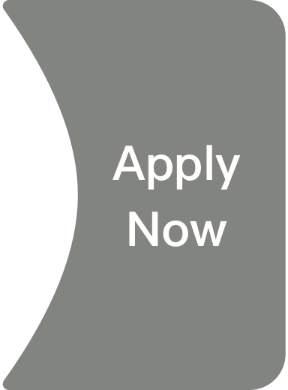
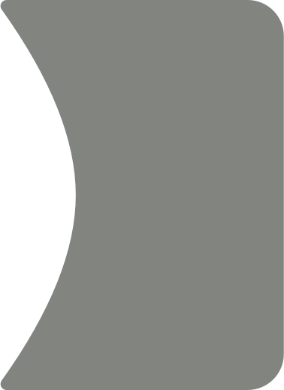
feat(home): 推荐卡按钮文案改由代码绘制并取后端 curitiba
- 按钮切图只保留弧形卡身，文案用 Text 叠加绘制，置灰态文案为白色
- HomeProductListCard 新增 buttonText，解析后端 curitiba，为空回落 Apply Now
- 移除已弃用的 apply_now_normal 切图与其常量，normal 态复用高亮切图

diff --git a/lib/pages/home_page.dart b/lib/pages/home_page.dart
@@ -1176,10 +1176,34 @@ class _RecommendationCard extends ConsumerWidget {
   /// 按钮切图尺寸（设计稿 `text-wrapper_10`：96x130）。
   static const _buttonWidth = 96.0;
 
+  /// 按钮文案（切图只保留弧形卡身，文案改由代码绘制）。
+  /// 优先取后端 `curitiba`，为空时回落到设计稿文案。
+  static const _buttonLabelFallback = 'Apply Now';
+
+  String get _buttonLabel {
+    return card.buttonText.isEmpty ? _buttonLabelFallback : card.buttonText;
+  }
+
+  /// 按钮文案色：置灰态用白色，其余用深色（设计稿）。
+  Color get _buttonLabelColor =>
+      card.buttonStyle == HomeProductCardButtonStyle.grayed
+      ? AppColors.white
+      : AppColors.cardValue;
+
+  /// 文案字号 / 行高（设计稿加粗、两行）。
+  static const _buttonLabelFontSize = 16.0;
+  static const _buttonLabelLineHeight = 1.4;
+
+  /// 文案强制折成两行的最大宽度（设计稿「Apply」/「Now」上下排布）。
+  static const _buttonLabelWidth = 52.0;
+
+  /// 文案区左侧避让弧形卡身（设计稿弧形最右约 25pt）。
+  static const _buttonLabelLeftInset = 25.0;
+
   /// 按钮切图按后端下发的配色选：高亮 / 正常 / 置灰。
   String get _buttonAsset => switch (card.buttonStyle) {
     HomeProductCardButtonStyle.highlighted => AppAssets.homeApplyNowHighlight,
-    HomeProductCardButtonStyle.normal => AppAssets.homeApplyNowNormal,
+    HomeProductCardButtonStyle.normal => AppAssets.homeApplyNowHighlight,
     HomeProductCardButtonStyle.grayed => AppAssets.homeApplyNowDisabled,
   };
 
@@ -1257,16 +1281,45 @@ class _RecommendationCard extends ConsumerWidget {
                 ),
               ),
             ),
-            // 整块按钮切图（弧形卡身 + 文案都烘焙在图里），上下与外框找平。
+            // 按钮切图只保留弧形卡身，上下与外框找平；文案由代码绘制。
             Positioned(
               top: 0,
               right: 0,
               bottom: 0,
               width: layout.px(_buttonWidth),
-              child: Image.asset(
-                _buttonAsset,
-                key: ValueKey('home-recommendation-apply-${card.id}'),
-                fit: BoxFit.fill,
+              child: Stack(
+                children: [
+                  Positioned.fill(
+                    child: Image.asset(
+                      _buttonAsset,
+                      key: ValueKey('home-recommendation-apply-${card.id}'),
+                      fit: BoxFit.fill,
+                    ),
+                  ),
+                  Positioned.fill(
+                    child: Padding(
+                      // 避开左侧弧身，文案在剩余区域居中。
+                      padding: layout.edgeInsets(left: _buttonLabelLeftInset),
+                      child: Center(
+                        child: SizedBox(
+                          width: layout.px(_buttonLabelWidth),
+                          child: Text(
+                            _buttonLabel,
+                            textAlign: TextAlign.center,
+                            maxLines: 3,
+                            overflow: TextOverflow.ellipsis,
+                            style: TextStyle(
+                              color: _buttonLabelColor,
+                              fontSize: layout.px(_buttonLabelFontSize),
+                              fontWeight: FontWeight.w700,
+                              height: _buttonLabelLineHeight,
+                            ),
+                          ),
+                        ),
+                      ),
+                    ),
+                  ),
+                ],
               ),
             ),
           ],

diff --git a/test/widget_test.dart b/test/widget_test.dart
@@ -1306,6 +1306,7 @@ const _recommendationCard = HomeProductListCard(
   termInfoText: 'Loan terms',
   tips: ['Low interest rates', 'Ages 17 years and over can borrow'],
   buttonStyle: HomeProductCardButtonStyle.highlighted,
+  buttonText: 'Apply Now',
 );
 
 void _usePhoneSurface(WidgetTester tester) {
@@ -1910,6 +1911,44 @@ void main() {
       (button.image as AssetImage).assetName,
       AppAssets.homeApplyNowHighlight,
     );
+    // 文案由代码绘制：高亮态用深色。
+    expect(
+      tester.widget<Text>(find.text('Apply Now')).style?.color,
+      AppColors.cardValue,
+    );
+  });
+
+  testWidgets('推荐卡按钮文案取后端 curitiba，置灰态文案为白色', (tester) async {
+    await _pumpApp(
+      tester,
+      repository: _StubAppRepository(
+        home: const HomeData(
+          banners: [],
+          product: null,
+          orders: [],
+          notices: [],
+          productList: [
+            HomeProductListCard(
+              id: '2',
+              productName: 'Pera Pitaka(AA)',
+              productLogo: '',
+              amountRange: '\u20b150,000',
+              amountRangeDes: 'Available up to',
+              loanRate: '\u2264 0.5% Day',
+              loanRateDes: 'Interest rate',
+              termInfo: '\u2264 0.5% Day',
+              termInfoText: 'Loan terms',
+              tips: [],
+              buttonStyle: HomeProductCardButtonStyle.grayed,
+              buttonText: 'Repay Now',
+            ),
+          ],
+        ),
+      ),
+    );
+
+    final label = tester.widget<Text>(find.text('Repay Now'));
+    expect(label.style?.color, AppColors.white);
   });
 
   testWidgets('首页推荐卡整块可点击：点空白处同样走申请流程', (tester) async {
@@ -2818,6 +2857,7 @@ void main() {
               'gundy': '121day',
               'islet': ['Low Interest Rates', '17 years old can be borrowed'],
               'holts': 1,
+              'curitiba': 'Apply Now',
             },
           ],
         },
@@ -2836,6 +2876,7 @@ void main() {
     expect(card.termInfo, '121day');
     expect(card.tips, ['Low Interest Rates', '17 years old can be borrowed']);
     expect(card.buttonStyle, HomeProductCardButtonStyle.highlighted);
+    expect(card.buttonText, 'Apply Now');
     // 推荐列表不是产品大卡，不能顶掉头图的 LARGE_CARD。
     expect(home.product, isNull);
   });

diff --git a/lib/data/models/home_data.dart b/lib/data/models/home_data.dart
@@ -358,6 +358,7 @@ class HomeProductListCard {
     required this.termInfoText,
     required this.tips,
     required this.buttonStyle,
+    required this.buttonText,
   });
 
   factory HomeProductListCard.fromJson(Map<String, dynamic> json) {
@@ -373,6 +374,8 @@ class HomeProductListCard {
       termInfo: json[ApiFields.termInfo]?.toString() ?? '',
       termInfoText: json[ApiFields.termText]?.toString() ?? '',
       tips: _titles(json[ApiFields.tips]),
+      // 按钮文案由后端下发（字段 `curitiba`），为空时回落到设计稿文案。
+      buttonText: json[ApiFields.buttonText]?.toString() ?? '',
       buttonStyle: HomeProductCardButtonStyle.fromCode(
         int.tryParse(json[ApiFields.buttonColorCode]?.toString() ?? '') ?? 0,
       ),
@@ -397,6 +400,9 @@ class HomeProductListCard {
   /// 卡片底部的提示文案，多段用「 / 」拼接（设计稿的粉色一行）。
   final List<String> tips;
   final HomeProductCardButtonStyle buttonStyle;
+
+  /// 右侧按钮文案（后端 `curitiba`），为空时回落设计稿「Apply Now」。
+  final String buttonText;
 }
 
 List<String> _titles(Object? raw) {

diff --git a/lib/theme/app_assets.dart b/lib/theme/app_assets.dart
@@ -25,7 +25,6 @@ abstract final class AppAssets {
   /// 弧形卡身 + 文案都烘焙在切图里，按后端 `holts`（1 高亮 / 0 正常 / -1 置灰）三态选图：
   /// 柠檬绿 / 品牌红 / 灰，对应设计稿从上到下的三张卡。
   static const homeApplyNowHighlight = 'assets/home/apply_now_highlight.png';
-  static const homeApplyNowNormal = 'assets/home/apply_now_normal.png';
   static const homeApplyNowDisabled = 'assets/home/apply_now_disabled.png';
 
   /// 首页 / 个人中心「应用内升级」弹窗的头部切图（蓝湖稿 `08-03 - 弹窗-升级提示`，
